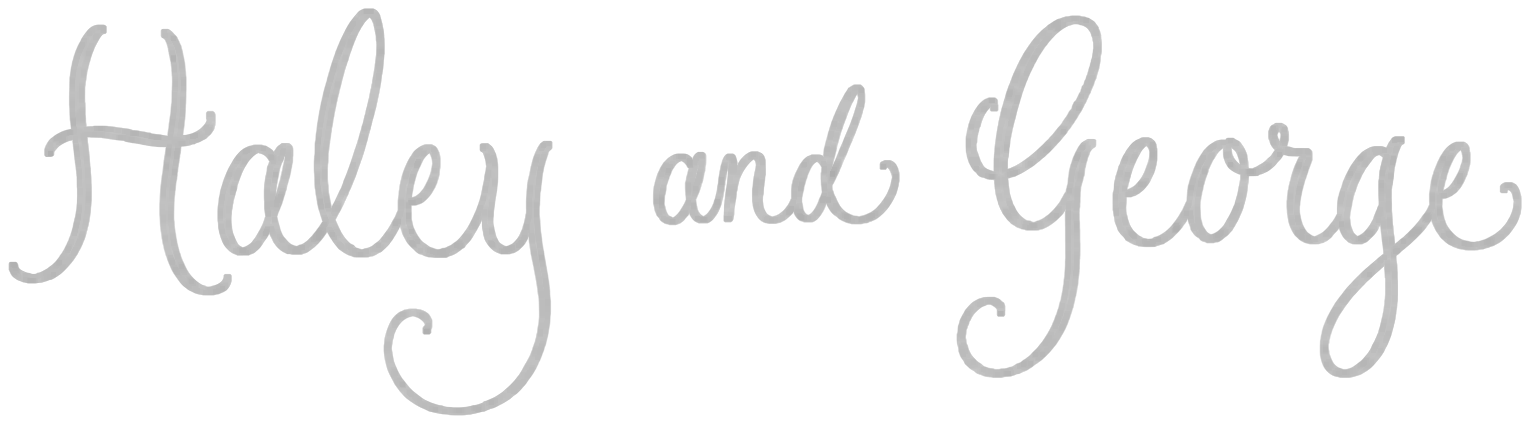
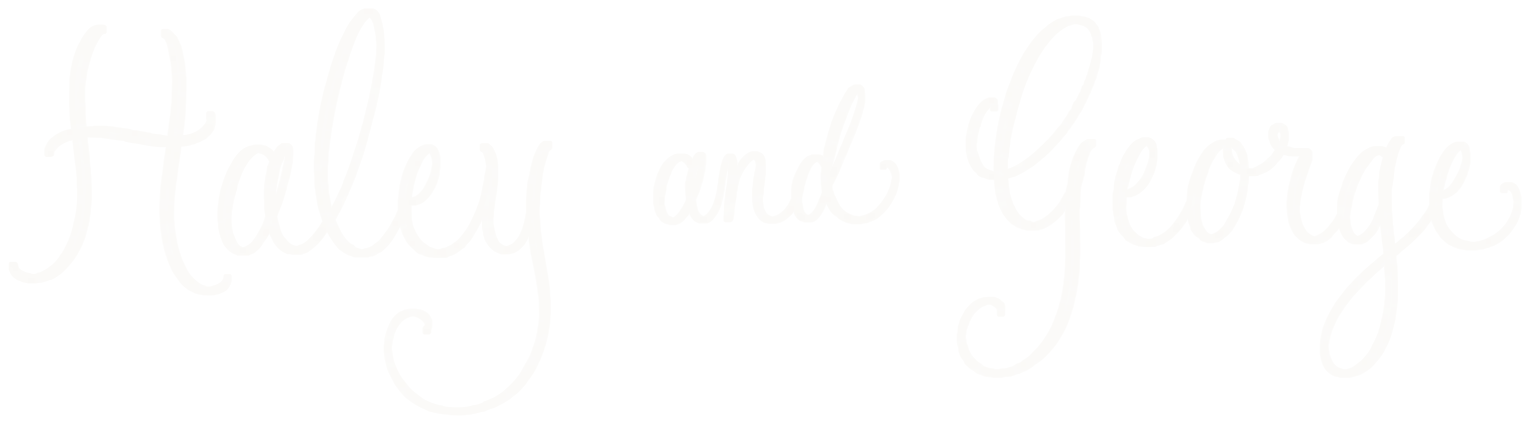
Navbar wordmark: bake exact cream into PNG, drop CSS filter, lock z-index in front

diff --git a/garcia-wedding/app/components/Navbar.tsx b/garcia-wedding/app/components/Navbar.tsx
@@ -28,13 +28,13 @@ export default function Navbar() {
           display: 'flex', alignItems: 'center', justifyContent: 'space-between',
         }}
       >
-        <a href="#hero" aria-label="Haley & George — home" style={{ display: 'block' }}>
+        <a href="#hero" aria-label="Haley & George — home" style={{ display: 'block', position: 'relative', zIndex: 1 }}>
           <img
             src="/photos/agenda/haley-and-george.png"
             alt="Haley & George"
             style={{
               height: 52, width: 'auto', display: 'block',
-              filter: 'brightness(0) invert(.95)',
+              position: 'relative', zIndex: 1,
             }}
           />
         </a>
